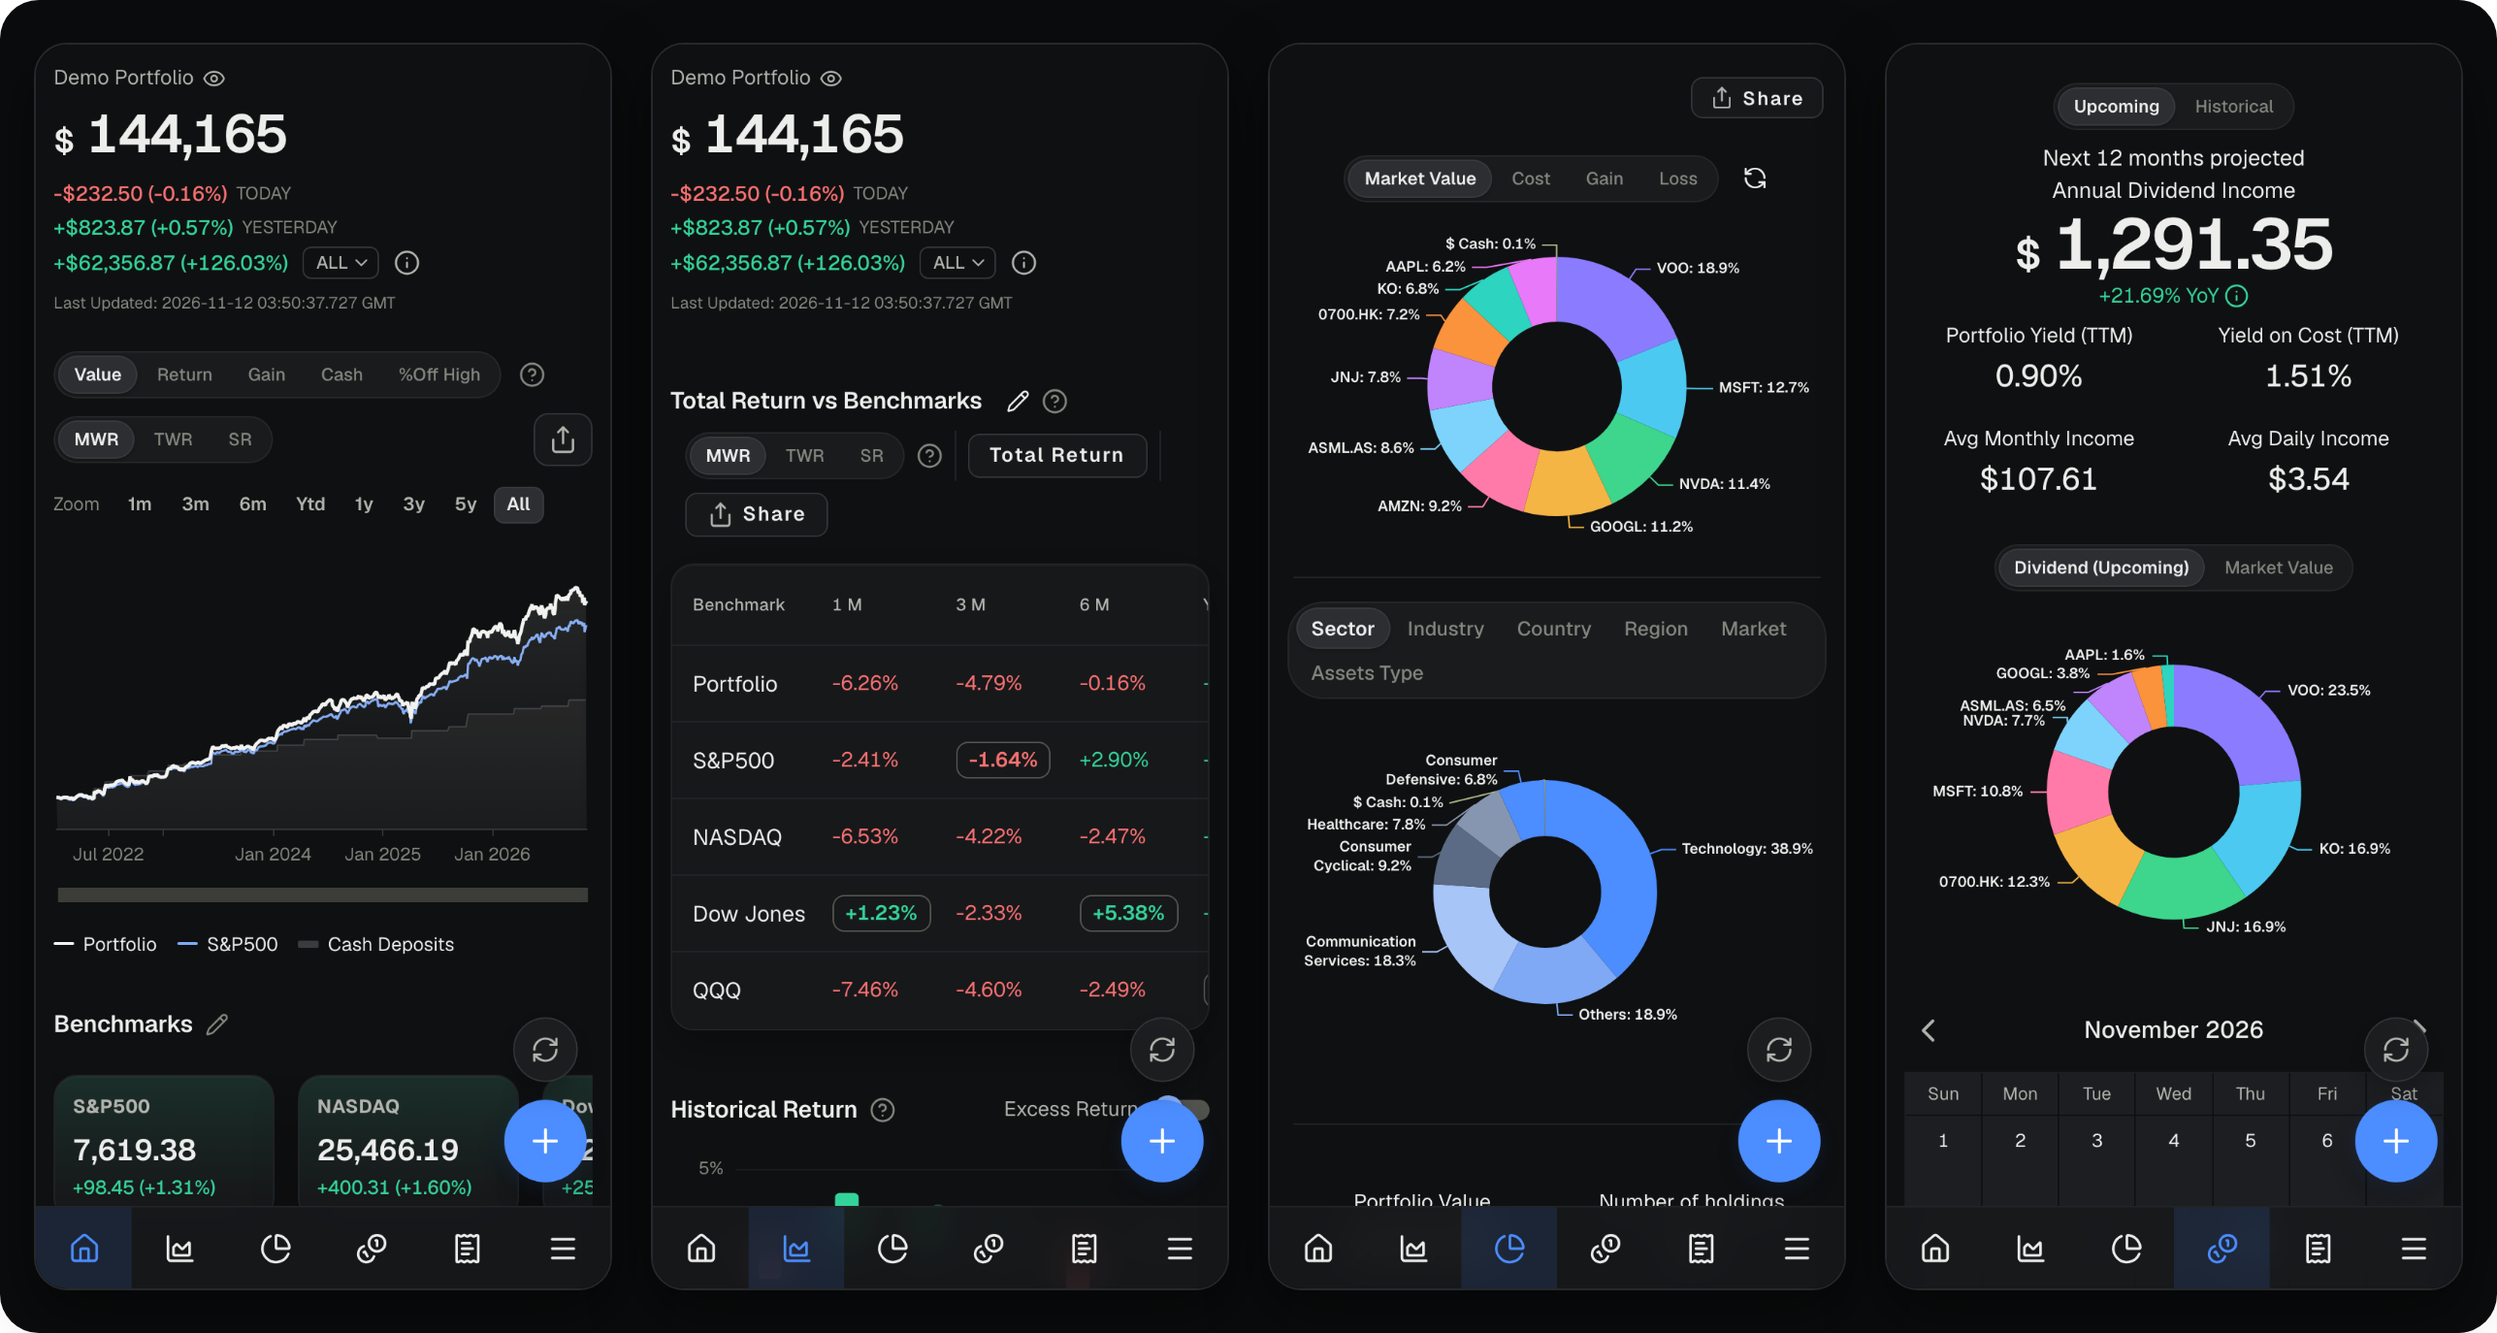
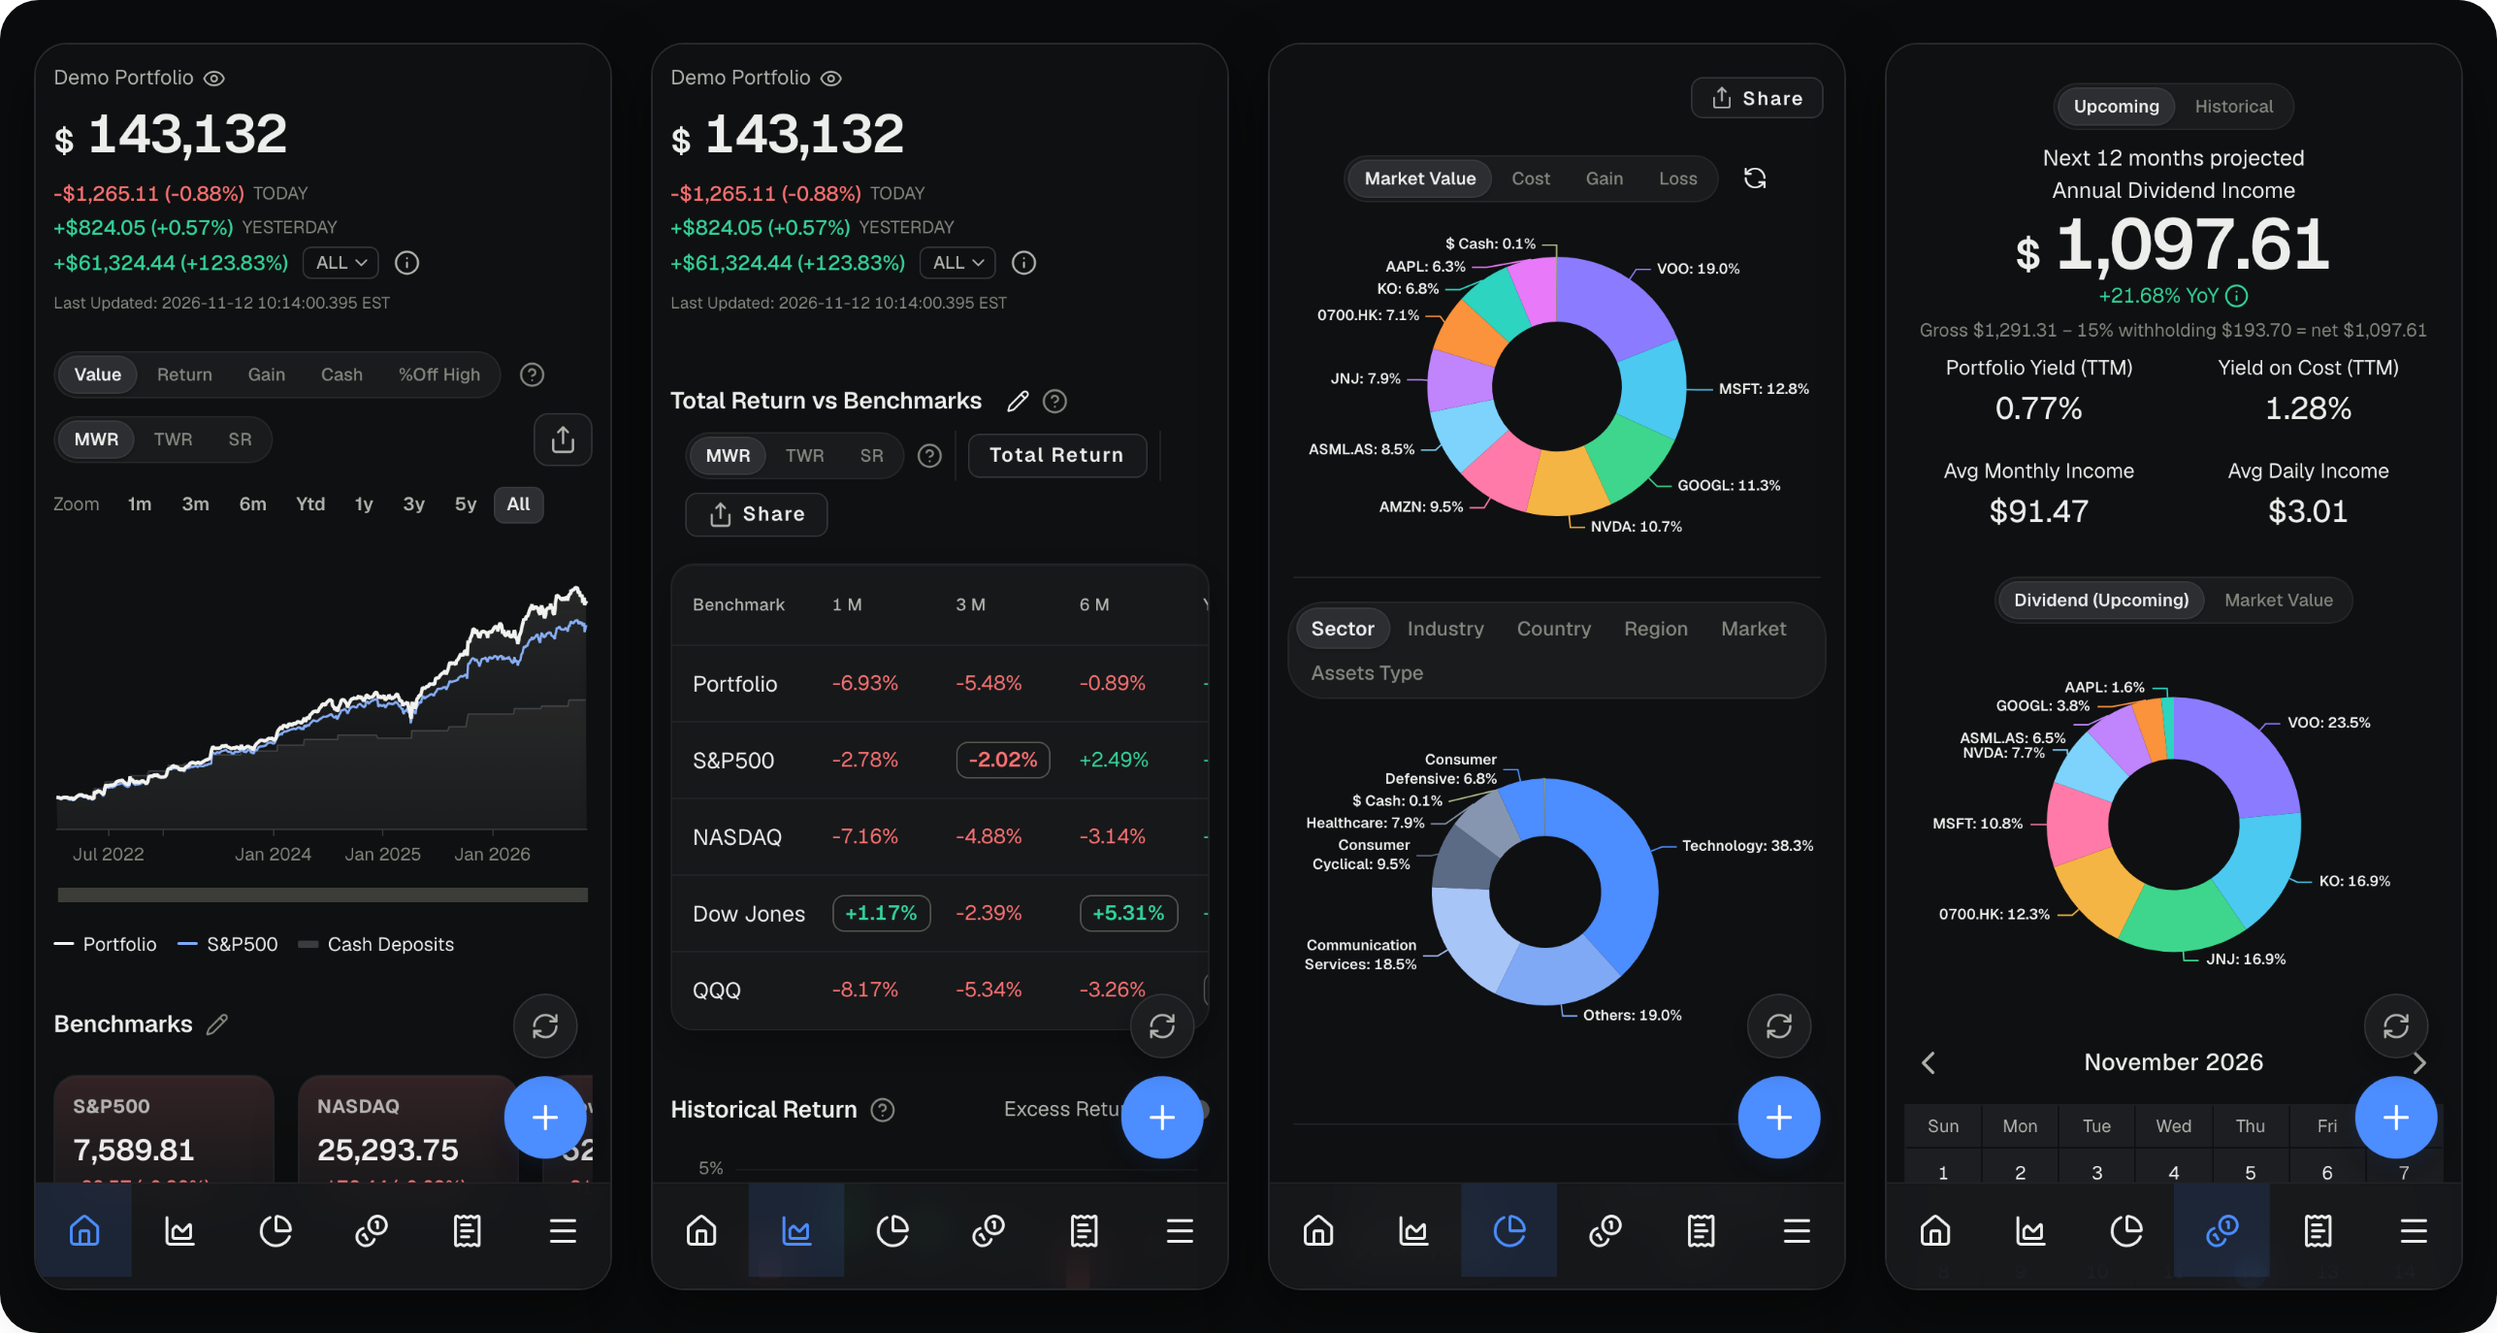
Docs: bring every README up to date
muse/README.md: the bridge's retried first load on a cold phone bridge,
the no-code-from-strings rule for the app file, safe areas and local
time, and a Tests section covering the server logic, the bridge and the
app file.

docs/HOSTING.md: loadState must throw on a failed read and never return
null for one, and a bridge should retry if its first call can fail. The
Muse section covers the retry, the tests, safe areas (viewport-fit=cover)
and local time. "Listed prices" is spelled out.

docs/TECHNICAL.md: the retry, safe areas, local time, the publishing
check, and vue-echarts' CSP build.

README.md: an FAQ entry for "Your portfolio couldn't be loaded".

Screenshots: all retaken with the fictional demo portfolio, showing the
taller phone bottom bar and Last Updated in local time (New York).

diff --git a/docs/HOSTING.md b/docs/HOSTING.md
@@ -56,6 +56,8 @@ window.portfolioHost = {
 Every member is optional:
 
 - **`loadState` and `saveState`** must be defined together. The app then reads and writes only through them and never touches `localStorage`. The state is one JSON document, typically 10–200 KB. Its shape is `AppState` in [`src/engine/types.ts`](../src/engine/types.ts): `{ version, activePortfolioId, preferences, portfolios[] }`.
+  - `loadState` returns `null` only when nothing has been saved yet: the app then starts with one empty portfolio. When the read fails, it must throw. Never return `null` for a failure, or the empty start could be saved over the real portfolio.
+  - The app doesn't retry `loadState`, so retry inside the bridge if the host's first call can fail for a moment (the Muse bridge does, below).
 - **`fetchJson(url)`** is the first route the app tries for market data. It receives full `https://query1.finance.yahoo.com/…` or `https://query2.finance.yahoo.com/…` URLs. Return the parsed JSON (Yahoo answers errors as JSON too, so pass those through). Throw only when the request itself fails. The app retries a failed request once after 0.7 s. It then tries its other routes and, failing those, shows cached prices with the refresh button in amber.
 - **`loadMarketCache(since)`** lets a new device open at once, without waiting for market data. It returns raw Yahoo responses as `[{ key, data, fetchedAt }]` (or `{ entries }`).
   - Keys: `chart:<SYMBOL>` (the chart response), `spark:<SYM,SYM,…>` (a quote response for up to 20 symbols) and `search:<SYMBOL>` (the profile search response).
@@ -106,12 +108,12 @@ A Muse space can run a front end plus server actions, with its own storage and s
 | Tracker needs | In the space |
 |---|---|
 | The front end | `app/portfolio-tracker.js` copied byte for byte, run by a page that holds only `#app` |
-| `loadState` / `saveState` | `getPortfolio` / `savePortfolio`: one JSON document under `portfolio` in the `app_state` table |
+| `loadState` / `saveState` | `getPortfolio` / `savePortfolio`: one JSON document under `portfolio` in the `app_state` table. On a phone, the first call of a session can fail once while the phone's bridge starts, so [`muse/client/src/host.ts`](../muse/client/src/host.ts) retries a failed load after 0.7, 1.5, 3 and 5 s, then throws |
 | `fetchJson` | `yahooGet`: allow-listed to `query1.finance.yahoo.com` and `query2.finance.yahoo.com`, which Muse's Sentinel asks you to approve |
 | `loadMarketCache` / `saveMarketCache` | `getSnapshot` / `saveSnapshotEntries` on the `market_cache` table |
 | A snapshot fresh while the app is closed | `refreshMarketCache` every 10 minutes ([`muse/space.json`](../muse/space.json)) |
 
-The server logic is in [`muse/server/src/market.ts`](../muse/server/src/market.ts). It has no dependencies and is covered by `npm test`, including a round trip: what the scheduled refresh stores is what the app opens on.
+The server logic is in [`muse/server/src/market.ts`](../muse/server/src/market.ts). It has no dependencies and is covered by `npm test`, including a round trip: what the scheduled refresh stores is what the app opens on. `npm test` also covers the bridge's retried load and checks that `app/portfolio-tracker.js` builds no code from strings, which Muse's publishing check refuses.
 
 These were tested end to end at phone and laptop widths, with the one file loaded from a `blob:` URL on a page that had no `#app` element and no viewport tag. Every server-action call took 250 ms:
 - **Opening:** a new device opened on the host's market snapshot in about 0.5 s, with no live request before the first paint. A device with its own cache opened in about 0.3 s. With no snapshot and no cache, the first open took about 2 s, with a count.
@@ -125,6 +127,8 @@ These were tested end to end at phone and laptop widths, with the one file loade
 The UI already fits Muse's phone view:
 
 - There is no top bar on phones. The bottom navigation, **+** and refresh float above the content and slide away while you scroll down.
+- The bottom navigation and full-screen dialogs keep clear of the phone's home bar and notch (the safe areas). This needs `viewport-fit=cover` in the page's viewport tag: the space's page has it, and the one-file build adds a tag with it when a page has none. At least 8px is kept at the bottom even when the shell reports no safe area.
+- Times show in the device's own time zone, with its name (for example *Last Updated: … GMT+8*).
 - Help is under **Menu → Help & FAQ**.
 - If a space ever blocks browser storage and has no bridge, the app still runs. Settings then says plainly that changes last only until the page closes, and suggests a backup.
 
@@ -153,4 +157,4 @@ location /yahoo/q1/ { proxy_pass https://query1.finance.yahoo.com/; proxy_set_he
 location /yahoo/q2/ { proxy_pass https://query2.finance.yahoo.com/; proxy_set_header Host query2.finance.yahoo.com; proxy_set_header Cookie ""; proxy_ssl_server_name on; }
 ```
 
-Without any route the app still works with everything you enter: transactions, custom assets with your own prices, goals and backups. Listed prices then stay empty until a route is available.
+Without any route the app still works with everything you enter: transactions, custom assets with your own prices, goals and backups. Prices of listed stocks, funds and coins then stay empty until a route is available.

diff --git a/muse/README.md b/muse/README.md
@@ -7,7 +7,7 @@ Everything a [Meta Muse](https://about.fb.com/news/2026/11/introducing-spaces-cu
 | [`../app/portfolio-tracker.js`](../app/portfolio-tracker.js) | `client/src/portfolio-tracker.js` | The whole app in one prebuilt file. Copied byte for byte. |
 | [`client/index.html`](client/index.html) | `client/index.html` | The page: only `#app` and the entry script |
 | [`client/src/main.ts`](client/src/main.ts) | `client/src/main.ts` | Connects the bridge, then runs the app |
-| [`client/src/host.ts`](client/src/host.ts) | `client/src/host.ts` | `window.portfolioHost`: storage and market data through the server actions |
+| [`client/src/host.ts`](client/src/host.ts) | `client/src/host.ts` | `window.portfolioHost`: storage and market data through the server actions. Retries the first portfolio load while a phone's bridge is still starting |
 | [`server/src/actions.ts`](server/src/actions.ts) | `server/src/actions.ts` | The six server actions |
 | [`server/src/market.ts`](server/src/market.ts) | `server/src/market.ts` | The yahooGet allow-list, the market snapshot and the scheduled refresh (no dependencies) |
 | [`server/src/schema.ts`](server/src/schema.ts) | `server/src/schema.ts` | Two Drizzle tables: `app_state` and `market_cache` |
@@ -20,6 +20,7 @@ Two lines connect to the Spaces starter's own modules, and nothing else depends 
 ## How it works
 
 1. **Opening.** The page defines `window.portfolioHost`, then runs the app. The app loads the portfolio (`getPortfolio`) and the market snapshot (`getSnapshot`) at the same time.
+   - On a phone, the first action call of a session can fail once while the phone's bridge is still starting. So the bridge retries a failed `getPortfolio` up to 4 times, after 0.7, 1.5, 3 and 5 seconds. If every try fails, it reports the error and never treats the failure as an empty portfolio.
    - When the device has its own cache, Home shows at once from it.
    - On a new device, Home shows from the snapshot, whatever its age.
    - Prices then update live through `yahooGet`.
@@ -31,8 +32,13 @@ Two lines connect to the Spaces starter's own modules, and nothing else depends 
 3. **While closed.** `refreshMarketCache` runs every 10 minutes and refreshes the snapshot: history, quotes and profiles for the active portfolio. A failed fetch never removes the last good data.
 4. **Saving.** Every change saves the whole portfolio as one JSON document under `portfolio` (`savePortfolio`), about 350 ms after the change.
 
-The page loads one script, so there's nothing to unpack and no blob URLs. In documents that refuse `history.pushState`, the app falls back to `#hash` navigation. If it can't start, or can't read the saved portfolio, it says so with a **Try again** button instead of a blank page. It never starts empty over existing data.
+The page loads one script, so there's nothing to unpack and no blob URLs. The script never builds code from a string (no `eval` or `Function()`), so it passes Muse's publishing check as it is and never needs patching. In documents that refuse `history.pushState`, the app falls back to `#hash` navigation. If it can't start, or can't read the saved portfolio, it says so with a **Try again** button instead of a blank page. It never starts empty over existing data.
 
-## Testing the server logic
+On phones, the bottom navigation and full-screen dialogs keep clear of the phone's home bar and notch. Times, such as Home's *Last Updated*, show in the device's own time zone.
 
-`server/src/market.ts` has no dependencies, so its tests run with plain Node: `npm test` from the repository root (Node 23.6 or newer). They use a fixed fake Yahoo, so they need no network.
+## Tests
+
+`npm test` from the repository root (Node 23.6 or newer) covers this folder with plain Node and no network:
+- `server/src/market.ts`, against a fixed fake Yahoo: the allow-list, the scheduled refresh, the snapshot, and a round trip into the app (what the refresh stores is what the app opens on).
+- `client/src/host.ts`, with a fake in place of the starter's `./api`: the retried first load, and a failed load that throws instead of returning an empty portfolio.
+- `app/portfolio-tracker.js`, the file the space copies: it must build no code from strings.

diff --git a/docs/TECHNICAL.md b/docs/TECHNICAL.md
@@ -27,14 +27,16 @@ A Muse space runs a front end, server actions, its own storage and scheduled job
 | `refreshMarketCache` | Every 10 minutes, open or not: refreshes the snapshot for your active portfolio |
 
 **What happens when you open it:**
-1. The app loads your portfolio and the snapshot at the same time.
+1. The app loads your portfolio and the snapshot at the same time. On a phone, the first call can fail once while the phone's bridge starts, so the space retries the portfolio load up to 4 times (after 0.7, 1.5, 3 and 5 seconds) before showing an error.
 2. It shows Home straight away from the prices cached on your device, or from the snapshot on a new device.
 3. It brings anything stale up to date in the background. It sends at most six requests at a time, never the same one twice at once, and retries a failed request once.
 4. While it's open, quotes refresh every minute and history every 10 minutes. The refresh button forces an update.
 
 Only a brand-new space whose snapshot has never been filled waits for prices, and it shows a count while it does. If the app can't start, or can't read your saved portfolio, it says so with a **Try again** button. It never starts empty over your data.
 
-The layout is made for Muse on a phone. There's no top bar. The bottom navigation, **+** and refresh float above the content and slide away while you scroll down. Help is under **Menu → Help & FAQ**. On a computer you get a sidebar and full-width pages.
+The layout is made for Muse on a phone. There's no top bar. The bottom navigation, **+** and refresh float above the content and slide away while you scroll down. They and full-screen dialogs keep clear of the phone's home bar and notch. Times show in your own time zone. Help is under **Menu → Help & FAQ**. On a computer you get a sidebar and full-width pages.
+
+The app file never builds code from a string (no `eval` or `Function()`), so it passes Muse's publishing check as it is. The build fails if that changes, and `npm test` checks the committed file.
 
 [`muse/README.md`](../muse/README.md) explains the space file by file, and [HOSTING.md](HOSTING.md) has the full bridge contract and what was tested.
 
@@ -153,4 +155,4 @@ The engine in `src/engine/` has no UI dependencies. It takes your transactions p
 
 ## Tech stack
 
-[Vue 3](https://vuejs.org) · [Vuetify 3](https://vuetifyjs.com) · [Vite](https://vite.dev) · [Apache ECharts](https://echarts.apache.org) via [vue-echarts](https://github.com/ecomfe/vue-echarts) · [Lucide](https://lucide.dev) icons · [Geist](https://vercel.com/font) font. In the space: Muse server actions, Drizzle on SQLite, and one scheduled job. Market data comes from Yahoo Finance's public endpoints.
+[Vue 3](https://vuejs.org) · [Vuetify 3](https://vuetifyjs.com) · [Vite](https://vite.dev) · [Apache ECharts](https://echarts.apache.org) via [vue-echarts](https://github.com/ecomfe/vue-echarts) (its CSP build) · [Lucide](https://lucide.dev) icons · [Geist](https://vercel.com/font) font. In the space: Muse server actions, Drizzle on SQLite, and one scheduled job. Market data comes from Yahoo Finance's public endpoints.

diff --git a/README.md b/README.md
@@ -286,6 +286,10 @@ Prices update every minute while the app is open, and your space refreshes them 
 
 A brand-new space has no prices saved yet, so the first open downloads them and shows a count. After that it opens straight away.
 
+### It says "Your portfolio couldn't be loaded".
+
+Tap **Try again**. Your portfolio is safe: the app never saves over it when it can't read it. On a phone, Muse sometimes needs a few seconds to connect when you first open the space. The tracker already tries again several times on its own, so this screen is rare.
+
 ### A ticker can't be found.
 
 Search uses Yahoo Finance's ticker symbols, which add a suffix for many exchanges (`.SI` for Singapore, `.HK` for Hong Kong, `.L` for London). If Yahoo doesn't list it, add it as a **Custom Asset**.
